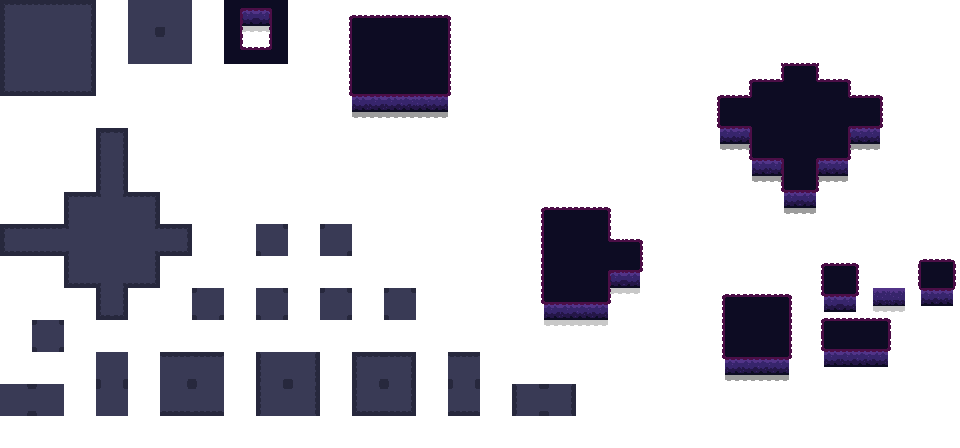
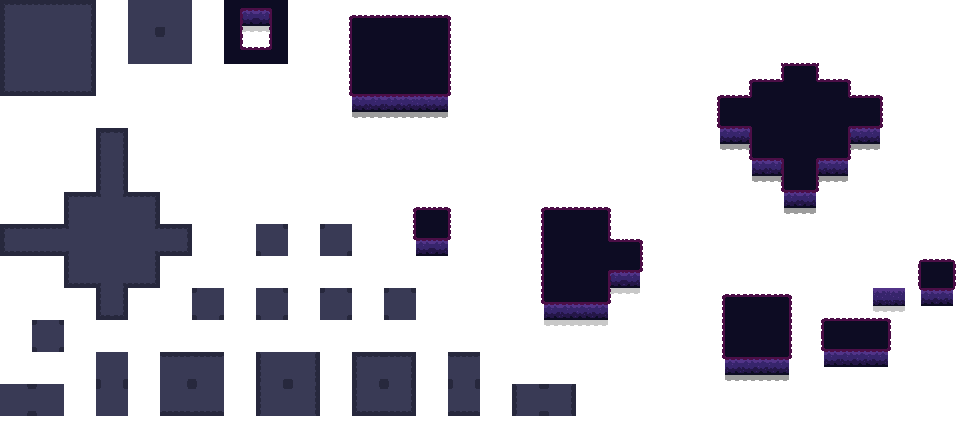
semi working wall detection, Correct collision layer check, IBulletBehaviors and lots more added.

Changed region(s): [[0.8438, 0.5625, 0.9062, 0.7188], [0.4062, 0.4375, 0.4688, 0.5938]]

diff --git a/Main/Guns/Bullet.cs b/Main/Guns/Bullet.cs
@@ -1,21 +1,25 @@
 using Godot;
 using System;
+using System.Collections.Generic;
 
 public partial class Bullet : AnimatedSprite2D, ICollidable
 {
     public Vector2 Velocity;
-    public float Radius = 15f;
-    public float LifeTime = 2f;
+    public float Radius = 5f;
+    public float LifeTime = 5f;
     public int CollisionLayer = 2; // PlayerBullet, EnemyBullet, etc
 
     public Vector2 _Position => GlobalPosition;
     float ICollidable.CollisionRadius => Radius;
     int ICollidable.CollisionLayer => CollisionLayer;
 
-    private Main main;
+    public List<IBulletBehavior> Behaviors = new();
+
     public bool Active = true;
     public bool HasHit { get; private set; }
-    
+
+    private Main main;
+
     public override void _Ready()
     {
         main = GetTree().GetFirstNodeInGroup("Main") as Main;
@@ -24,14 +28,70 @@ public partial class Bullet : AnimatedSprite2D, ICollidable
 
     public override void _PhysicsProcess(double delta)
     {
-        GlobalPosition += Velocity * (float)delta;
+        
+        MoveAndCollideWithWalls((float)delta);
+
+        foreach (var behavior in Behaviors) behavior.OnUpdate(this, (float)delta);
+
+        //GlobalPosition += Velocity * (float)delta;
         LifeTime -= (float)delta;
 
         if (LifeTime <= 0f) Deactivate();
     }
 
+    private void MoveAndCollideWithWalls(float delta)
+    {
+        Vector2 pos = GlobalPosition;
+        Vector2 next = pos + Velocity * delta;
+
+        // --- X axis ---
+        if (Velocity.X != 0)
+        {
+            float signX = Mathf.Sign(Velocity.X);
+            Vector2 probe = new Vector2(next.X + signX * Radius, pos.Y);
+
+            if (Main.Instance.IsWallAt(probe))
+            {
+                Vector2 normal = new Vector2(signX, 0);
+                Velocity = Velocity.Bounce(normal);
+                NotifyWallHit(normal);
+            }
+            else
+            {
+                pos.X = next.X;
+            }
+        }
+
+        // --- Y axis ---
+        if (Velocity.Y != 0)
+        {
+            float signY = Mathf.Sign(Velocity.Y);
+            Vector2 probe = new Vector2(pos.X, next.Y + signY * Radius);
+
+            if (Main.Instance.IsWallAt(probe))
+            {
+                Vector2 normal = new Vector2(0, signY);
+                Velocity = Velocity.Bounce(normal);
+                NotifyWallHit(normal);
+            }
+            else
+            {
+                pos.Y = next.Y;
+            }
+        }
+
+        GlobalPosition = pos;
+    }
+
+    private void NotifyWallHit(Vector2 normal)
+    {
+        foreach (var b in Behaviors) b.OnWallHit(this, normal);
+    }
+
     public void Activate()
     {
+        Active = true;
+        Visible = true;
         SetPhysicsProcess(true);
     }
     public void Deactivate()
@@ -39,21 +99,6 @@ public partial class Bullet : AnimatedSprite2D, ICollidable
         Active = false;
         Visible = false;
         SetPhysicsProcess(false);
-
     }
-
-    
-
-    public void ResetHit()
-    {
-        HasHit = false;
-    }
-
-    public void MarkHit()
-    {
-        HasHit = true;
-    }
-
-
 
 }

diff --git a/Main/Main.cs b/Main/Main.cs
@@ -1,12 +1,13 @@
 using Godot;
-using System;
 using System.Collections.Generic;
+using System.Numerics;
 
 public partial class Main : Node2D
 {
     public static Main Instance {get; private set;}
 
     private SpatialGrid grid;
+    public TileMapLayer walls;
 
     public List<Bullet> bullets = new();
     public List<Hurtbox> hurtboxes = new();
@@ -16,6 +17,16 @@ public partial class Main : Node2D
         Instance = this;
         grid = new SpatialGrid(96f);
     }
+
+    public bool IsWallAt(Godot.Vector2 worldpos)
+    {
+        Vector2I cell = walls.LocalToMap(walls.ToLocal(worldpos));
+
+        GD.Print(cell);
+        // SourceId == -1 means empty
+        return walls.GetCellSourceId(cell) != -1;
+    }
+
     public override void _PhysicsProcess(double delta)
     {
         grid.Clear();
@@ -23,7 +34,7 @@ public partial class Main : Node2D
         foreach (var hurtbox in hurtboxes) grid.Insert(hurtbox);
         foreach (var bullet in bullets)
         {
-            //if (!bullet.Active) continue;
+            if (!bullet.Active) continue;
             grid.Insert(bullet);
         } 
 
@@ -40,6 +51,8 @@ public partial class Main : Node2D
             foreach (var obj in grid.QueryNearby(bullet.GlobalPosition))
             {
                 if (obj is not Hurtbox hurtbox) continue;
+
+                if (bullet.CollisionLayer != obj.CollisionLayer) continue;
 
                 float r = bullet.Radius + hurtbox.Radius;
                 if (bullet.GlobalPosition.DistanceSquaredTo(hurtbox.GlobalPosition) <= r * r)

diff --git a/Main/Map/WalkerHead.cs b/Main/Map/WalkerHead.cs
@@ -13,9 +13,11 @@ public partial class WalkerHead : Node2D
 
     public Godot.Collections.Array<Godot.Vector2I> floorSet = [];
     private Player player;
+    private Main main;
 
     public override void _Ready()
     {
+        main = GetTree().GetFirstNodeInGroup("Main") as Main;
         player = GetTree().GetFirstNodeInGroup("Player") as Player;
         GenerateMap();
     }
@@ -56,7 +58,7 @@ public partial class WalkerHead : Node2D
                 var location = new Vector2I(x, y);
                 if (!floorSet.Contains(location))
                 {
-                    //WallMap.SetCell(location, 0, new Vector2I(1, 0));
+                    WallMap.SetCell(location, 5, new Vector2I(12, 6));
                     UnderGround.SetCell(location, 5, new Vector2I(1,1));
 
                     //Walls.Add(location);
@@ -68,7 +70,7 @@ public partial class WalkerHead : Node2D
         //WallMap.SetCellsTerrainConnect(Walls, 0, 1);
 
         player.GlobalPosition = floorSet[floorSet.Count - 1] * 32 + new Vector2(16,16);
-        
+        main.walls = WallMap;
     }
 
     public override void _Input(InputEvent input)

diff --git a/Main/Guns/Bullets/Behaviors/BounceBehavior.cs b/Main/Guns/Bullets/Behaviors/BounceBehavior.cs
@@ -1,0 +1,35 @@
+using Godot;
+using System;
+
+public class BounceBehavior : IBulletBehavior
+{
+    public int bouncesLeft = 3;
+
+    public void OnSpawn(Bullet b)
+    {
+    }
+
+    public void OnUpdate(Bullet b, float delta)
+    {
+    }
+
+    public void OnHit(Bullet b, ICollidable collidable)
+    {
+    }
+
+    public BounceBehavior(int bounces)
+    {
+        bouncesLeft = bounces;
+    }
+
+    public void OnWallHit(Bullet b, Vector2 normal)
+    {
+        if (bouncesLeft-- <= 0)
+        {
+            b.Deactivate();
+            return;
+        }
+
+        b.Velocity = b.Velocity.Bounce(normal);
+    }
+}

diff --git a/Main/Entities/Player/Look.cs b/Main/Entities/Player/Look.cs
@@ -38,7 +38,8 @@ public partial class Look : Marker2D
         {
             var instance = bul.Instantiate() as Bullet;
             instance.GlobalPosition = GlobalPosition;
-            instance.Velocity = Vector2.Left * 50f;
+            instance.Velocity = (GetGlobalMousePosition() - GlobalPosition).Normalized() * 100f;
+            instance.Behaviors.Add(new BounceBehavior(3));
 
             main.AddChild(instance);
         }

diff --git a/Components/ObjectTypes/IBulletBehavior.cs b/Components/ObjectTypes/IBulletBehavior.cs
@@ -1,0 +1,10 @@
+using Godot;
+using System;
+
+public interface IBulletBehavior
+{
+    void OnSpawn(Bullet b);
+    void OnUpdate(Bullet b, float delta);
+    void OnHit(Bullet b, ICollidable target);
+    void OnWallHit(Bullet b, Vector2 normal);
+}

diff --git a/Main/Entities/Components/Hurtbox.cs b/Main/Entities/Components/Hurtbox.cs
@@ -3,7 +3,7 @@ using System;
 
 public partial class Hurtbox : Node2D, ICollidable
 {
-    public float Radius = 30f;
+    public float Radius = 15f;
     public int Health = 5;
 
     public Vector2 _Position => GlobalPosition;
